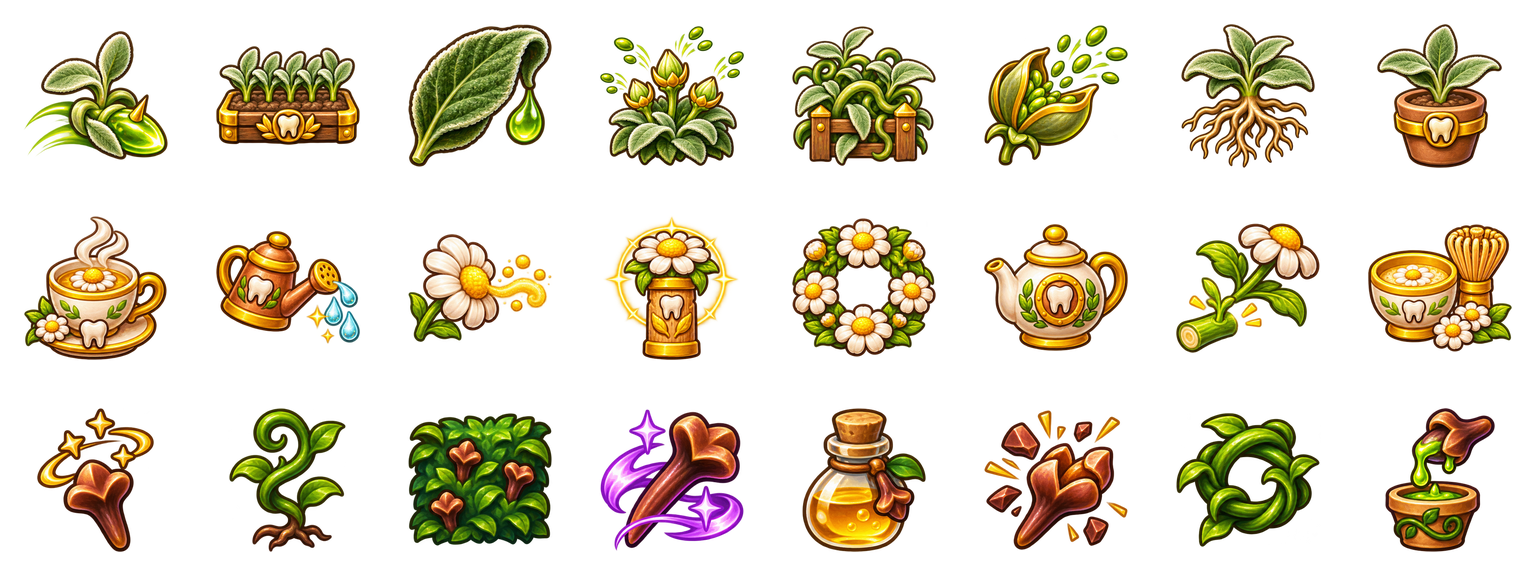
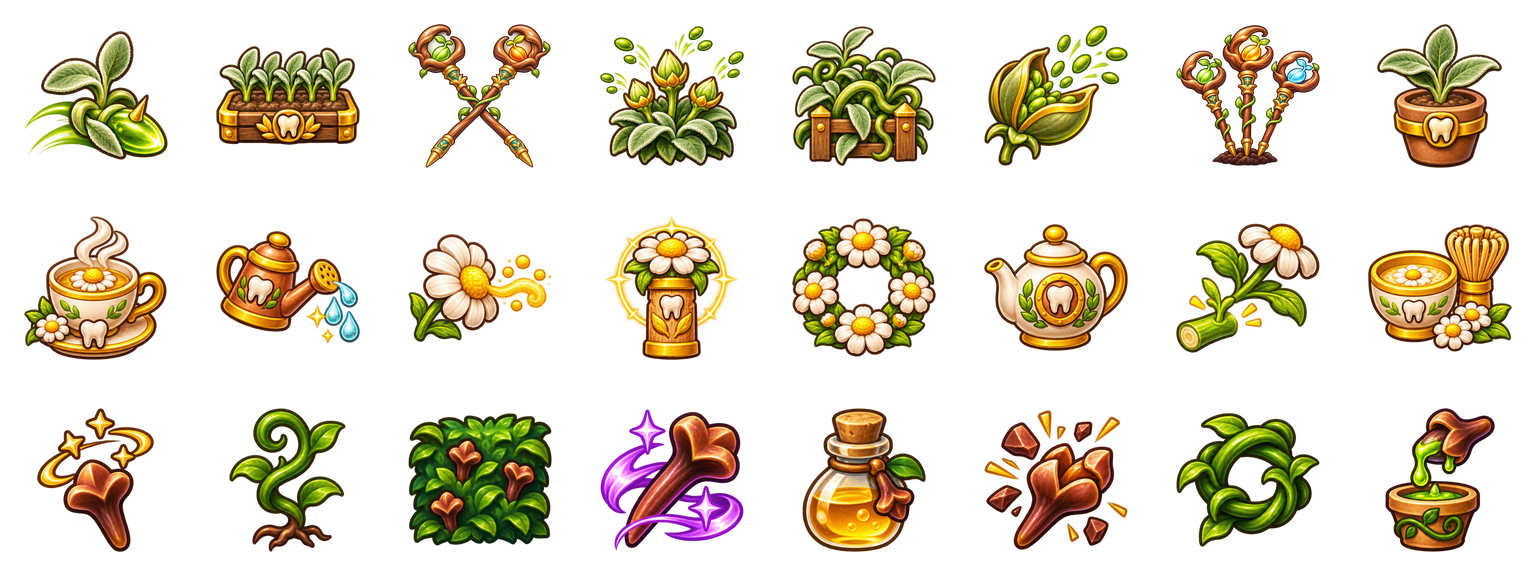
Let the Kräuterzahn grow up to three staffs with their own gardens
Each staff now keeps 5/6/7/8 herbs by Mk tier (Dichtes Beet +1 per rank),
plants in its own rhythm and shoots with its own element, tier and
enchantments. The talents Zweiter Stab and Dritter Stab open roots for more
staffs; the shop offers another staff while a root is free. Herbs remember
their staff across saves. Also: sage muzzle height and totem healing
feedback, plus two new painted talent icons.

Changed region(s): [[0.25, 0.0312, 0.375, 0.3125], [0.75, 0.0312, 0.875, 0.3125]]

diff --git a/tools/generate_class_roster.py b/tools/generate_class_roster.py
@@ -174,7 +174,7 @@ CLASSES = {
         "name": "Kräuterzahn",
         "tagline": "Erst säen, dann ernten: Heilkräuter kämpfen für dich.",
         "style": ["Der Pflanzstab setzt im Angriffstakt Salbeitriebe, die auf Gegner schießen", "Putzeifer lässt den Garten wachsen, Fernschaden stärkt die Schüsse", "Denti selbst kämpft nicht; wer flieht, lässt seinen Garten zurück"],
-        "description": "Der Kräuterzahn trägt nur den Pflanzstab. Im Angriffstakt pflanzt er dort, wo er steht, einen Salbeitrieb, der selbstständig schießt. Pflanzen verwelken nach einer Weile; je schneller er pflanzt, desto größer wird sein Garten. Gegner nutzen Pflanzen bei Kontakt ab, Bosse zertrampeln sie.",
+        "description": "Der Kräuterzahn trägt nur Pflanzstäbe, Talente öffnen Wurzeln für bis zu drei. Im Angriffstakt pflanzt er dort, wo er steht, einen Salbeitrieb, der selbstständig schießt. Pflanzen verwelken nach einer Weile; je schneller er pflanzt, desto größer wird sein Garten. Gegner nutzen Pflanzen bei Kontakt ab, Bosse zertrampeln sie.",
         "roots": 1,
         "exclusive": "planting_staff",
         "starting": {},
@@ -182,10 +182,10 @@ CLASSES = {
         "branches": ["Salbeibeet", "Kamillenhain", "Nelkenhecke"],
         "tree": [
             [a("ranged_damage", 8), t("herb_thorns", "Dornen", "Salbeischüsse durchbohren einen weiteren Gegner.", 1, {"herb_pierce": 1}), a("attack_speed", 4),
-             a("crit_chance", 4), t("herb_dense", "Dichtes Beet", "Ein Salbeitrieb mehr gleichzeitig je Rang.", 2, {"herb_cap": 1}), f(),
-             f(), t("herb_bitter", "Bitterkraut", "+3 Salbeischaden je Rang.", 3, {"herb_damage": 3}), a("ranged_damage", 6),
+             a("crit_chance", 4), t("herb_dense", "Dichtes Beet", "Jeder Pflanzstab hält eine Pflanze mehr gleichzeitig. Je Rang.", 2, {"herb_cap": 1}), f(),
+             f(), t("herb_staff_two", "Zweiter Stab", "Öffnet eine Wurzel für einen weiteren Pflanzstab aus dem Shop. Jeder Stab pflegt seinen eigenen Garten mit eigenem Element.", 1, {"extra_roots": 1}), a("ranged_damage", 6),
              f(), s("herb_shrub", "Salbeistrauch", "Jeder fünfte Salbeitrieb wächst zu einem Strauch, der eine Salve auf mehrere Gegner feuert.", {"skill_shrub": 1}), a("damage_bonus", 6),
-             m("shrub_wild", "Wildwuchs", "Schon jeder vierte Salbeitrieb wird ein Strauch.", {"shrub_wild": 1}), m("shrub_seeds", "Samenschuss", "Strauch-Salven feuern zwei Samen mehr.", {"shrub_seeds": 2}), m("shrub_roots", "Tiefe Wurzeln", "Sträucher leben doppelt so lang.", {"shrub_roots": 1}),
+             m("shrub_wild", "Wildwuchs", "Schon jeder vierte Salbeitrieb wird ein Strauch.", {"shrub_wild": 1}), m("shrub_seeds", "Samenschuss", "Strauch-Salven feuern zwei Samen mehr.", {"shrub_seeds": 2}), t("herb_staff_three", "Dritter Stab", "Öffnet eine weitere Wurzel für einen dritten Pflanzstab.", 1, {"extra_roots": 1}, parent="herb_staff_two"),
              f(), k("herb_monoculture", "Monokultur", "Nur noch Salbei, keine Kamille und Nelke; dafür 50 % mehr Pflanzen gleichzeitig.", {"herb_monoculture": 1}), f()],
             [a("regen", 10), t("herb_soothe", "Beruhigend", "Pflanzen in deiner Nähe heilen dich langsam.", 1, {"herb_soothe": 1}), a("max_health", 10),
              a("attack_speed", 4), t("herb_can", "Gießkanne", "Pflanzen leben 2 s länger je Rang.", 2, {"herb_life": 2}), f(),

diff --git a/assets/classes/herb_druid.prompt.md b/assets/classes/herb_druid.prompt.md
@@ -152,3 +152,41 @@ Use case: background-extraction. Image 1 is the edit target. Change only the bac
 ```
 
 Die Pflanzen sind in 256 × 256 px großen Zellen mit gemeinsamer Wurzelhöhe gepackt. Die drei Icon-Bögen lesen sich jeweils links nach rechts, erst oben, dann unten und ergeben je eine Atlaszeile. Alle Zellen haben transparente Ränder. Sichtprüfung bei 30 px fürs Porträt, 60 px für den Stab, 30–40 px für die Pflanzen und 28 px für die Icons.
+
+---
+
+## Nachtrag 23.11.2026: zwei neue Talent-Icons
+
+Der Kräuterzahn kann jetzt bis zu drei Pflanzstäbe tragen. Zwei Talente im Ast
+**Salbeibeet** wurden ersetzt; ihre Atlasfelder zeigen noch die alten Motive.
+Bitte nur diese **zwei Zellen** in `assets/classes/herb_druid_talent_icons.png`
+neu malen, alle anderen 22 Zellen unverändert lassen (gleiche Zellgröße 192 × 192,
+gleiche Polsterung, Stil wie die Nachbarzellen derselben Zeile).
+
+| Zelle (Zeile 1, 0-basiert) | Alt | Neu | Motiv |
+| --- | --- | --- | --- |
+| Spalte 2 | Bitterkraut | **Zweiter Stab** | zwei schlanke Pflanzstäbe gekreuzt, jeder mit einem leuchtenden Samen im Wurzelkopf, einer grün, einer bernsteinfarben |
+| Spalte 6 | Tiefe Wurzeln | **Dritter Stab** | drei Pflanzstäbe fächerförmig nebeneinander in einem kleinen Erdhügel, Samen in drei Farben (grün, bernstein, eisblau) |
+
+```text
+Use case: precise-object-edit. Image 1 is the existing Kräuterzahn talent atlas (8 columns x 3 rows, 192 px cells). Repaint ONLY two cells of the first row and leave every other cell pixel-identical: row 1 column 3 (0-based column 2) and row 1 column 7 (0-based column 6). Match the neighbouring icons exactly in warm ivory and glossy gold, sage-green palette, slight brush texture, bold dark-brown outlines and chunky toy-like shapes, with the same padding and transparent background. New cell at column 2: two slender wooden planting staffs crossed in an X, each with a gold ferrule and a curled root head holding one glowing seed, one seed green and one amber. New cell at column 6: three planting staffs fanned out side by side, stuck into a small mound of dark soil, their seeds glowing green, amber and ice-blue. No text, no numbers, readable at 28 px, genuine RGBA.
+```
+
+### Ergebnis
+
+Beide Motive wurden mit dem eingebauten `image_gen.imagegen` und echtem Alpha
+einzeln erzeugt und in die Zellen 402 und 406 des Talent-Atlas gepackt. Die 22
+übrigen Zellen sind pixelgleich. Beide Icons wurden in Godot bei 28 px und im
+Talentbaum geprüft.
+
+**Zweiter Stab** aus `exec-c5c5f6d2-fcd5-4ddb-976a-0199971f182a.png`
+
+```text
+Use case: stylized-concept. Asset type: a single square talent icon to pack into its own 192 px cell of the supplied 8 by 3 game atlas. Image 1 is for style only: match the sage branch along the top with rounded glossy hand-painted shapes, gold metal, warm ivory highlights, dark brown edges, warm directional lighting and slight brushwork. Image 2 is the Pflanzstab silhouette reference: reddish-brown wood, golden ferrule, curled living root head holding a plump glowing seed with a sprouting leaf, and a golden digging point. Use a slightly chunkier root head and strong distinct color blocks to remain unmistakable at 28px. Render only this one centered square icon, with transparent padding of roughly 12% on all sides and genuine zero-alpha RGBA outside the silhouette. No text, numbers, plaque, border, grid, backdrop, cast shadow, haze, stray particles or other icons. Zweiter Stab: exactly TWO slender wooden planting staves crossed into a symmetrical X at their mid-shafts, each with one gold ferrule and a curved wooden root head holding ONE luminous leafy seed. The two distinct heads sit upper left and upper right with clear empty separation. The left seed is vivid fresh sage green and the right seed is warm bright amber orange. Both small gold digging tips sit visibly apart at bottom left and bottom right. The combined X has a compact, roughly square outer silhouette and reads at 28px.
+```
+
+**Dritter Stab** aus `exec-0c77a3fb-a00f-4653-b0e3-7a73ab98864b.png`
+
+```text
+Use case: stylized-concept. Asset type: a single square talent icon to pack into its own 192 px cell of the supplied 8 by 3 game atlas. Image 1 is for style only: match the sage branch along the top with rounded glossy hand-painted shapes, gold metal, warm ivory highlights, dark brown edges, warm directional lighting and slight brushwork. Image 2 is the Pflanzstab silhouette reference: reddish-brown wood, golden ferrule, curled living root head holding a plump glowing seed with a sprouting leaf, and a golden digging point. Use a slightly chunkier root head and strong distinct color blocks to remain unmistakable at 28px. Render only this one centered square icon, with transparent padding of roughly 12% on all sides and genuine zero-alpha RGBA outside the silhouette. No text, numbers, plaque, border, grid, backdrop, cast shadow, haze, stray particles or other icons. Dritter Stab: exactly THREE slender wooden planting staves fanned from a small rounded mound of dark potting soil. Each has its own golden collar, a visible wooden shaft segment and its own curled wooden root head. The one in the center stands upright and a little taller, the outer ones tilt visibly outward. Three distinctly spaced heads with separate luminous leafy seeds: left sage green, center warm bright amber orange, right luminous ice blue. All three bases are planted in the same small soil mound, a low dark accent confined to the very bottom of the icon. Keep the silhouette noticeably wider at the top, with visible transparent gaps between the three heads and shafts.
+```

diff --git a/docs/CLASS_HERB_DRUID.md b/docs/CLASS_HERB_DRUID.md
@@ -29,19 +29,25 @@ Kräuterzahns stehen fest. Er baut einen **Garten** und lockt die Horde hinein.
 Rand kreisen, damit neue Triebe die Lücken füllen → bei Druck in einen zweiten
 Garten ausweichen.
 
-## Pflanzstab (Exklusivwaffe)
+## Pflanzstäbe (Exklusivwaffe, bis zu drei)
 
-- 1 Wurzel, wie der Extraktionsstab des Nekrodenten. Andere Waffen kann der
-  Kräuterzahn nicht tragen.
+- Start mit einem Stab und 1 Wurzel. Andere Waffen kann der Kräuterzahn nicht tragen.
+- Die Talente **Zweiter Stab** (Salbeibeet, Reihe 2) und **Dritter Stab** (Reihe 4)
+  öffnen je eine Wurzel (`extra_roots` → `PlayerStats.talent_roots`). Ist eine Wurzel
+  frei, bietet der Shop einen weiteren Pflanzstab an, sonst die Fusion des
+  schwächsten Stabs.
+- **Jeder Stab pflegt seinen eigenen Garten:** eigene Obergrenze, eigener Pflanztakt,
+  eigenes Element, eigene Mk-Stufe und Verzauberungen. Ein voller Garten ersetzt die
+  älteste Pflanze desselben Stabs. Der Bodenschein zeigt das Element pro Pflanze.
 - Angriffstakt = Pflanztakt (Putzeifer verkürzt ihn).
 - Shop-Fusion Mk II–IV: Pflanzen leben länger, Obergrenze steigt, Salbei schießt weiter.
-- Verzauberungen: ein Element pro Stab, wirkt auf alle Salbeischüsse.
+- Fällt ein Stab weg (Fusion, Klassenwechsel), übernimmt der erste Stab seine Pflanzen.
 
 | Wert (Mk I, Startschätzung) | |
 | --- | --- |
 | Pflanztakt | 1,6 s |
-| Lebenszeit einer Pflanze | 12 s → etwa 7 Pflanzen gleichzeitig |
-| Obergrenze | 10 (Mk IV: 16) |
+| Lebenszeit einer Pflanze | 12 s (+1,5 s je Mk-Stufe) |
+| Obergrenze pro Stab | 5 / 6 / 7 / 8 je Mk-Stufe, +1 je Rang „Dichtes Beet“ |
 | Wachstum bis zum ersten Schuss | 0,6 s |
 | Salbeischuss | 6 + 0,6 × Fernschaden, alle 0,9 s, mittlere Reichweite |
 
@@ -57,11 +63,12 @@ Skills wechselt der Stab reihum: zum Beispiel Salbei, Kamille, Salbei, Nelke.
 ### Ast 1: Salbeibeet (Angriff) → Skill **Salbeistrauch**
 
 - Talente: **Dornen** (Salbeischüsse durchbohren einen Gegner), **Dichtes Beet**
-  (+1 Obergrenze je Rang), **Bitterkraut** (+Salbeischaden je Rang).
+  (+1 Pflanze pro Stab je Rang), **Zweiter Stab** (Reihe 2) und **Dritter Stab**
+  (Reihe 4) öffnen je eine Wurzel für einen weiteren Pflanzstab.
 - **Skill Salbeistrauch:** Jeder fünfte Trieb wächst zu einem großen Strauch, der
   statt Einzelschüssen eine kurze Salve auf mehrere Gegner feuert.
 - Modifikatoren: **Wildwuchs** (jeder vierte statt jeder fünfte), **Samenschuss**
-  (Strauch-Salve platzt in kleine Samen), **Tiefe Wurzeln** (Sträucher leben doppelt so lang).
+  (Strauch-Salve platzt in kleine Samen).
 - Schlüsselstein **Monokultur:** Nur noch Salbei, keine Kamille und Nelke mehr; dafür
   +50 % Obergrenze.
 
